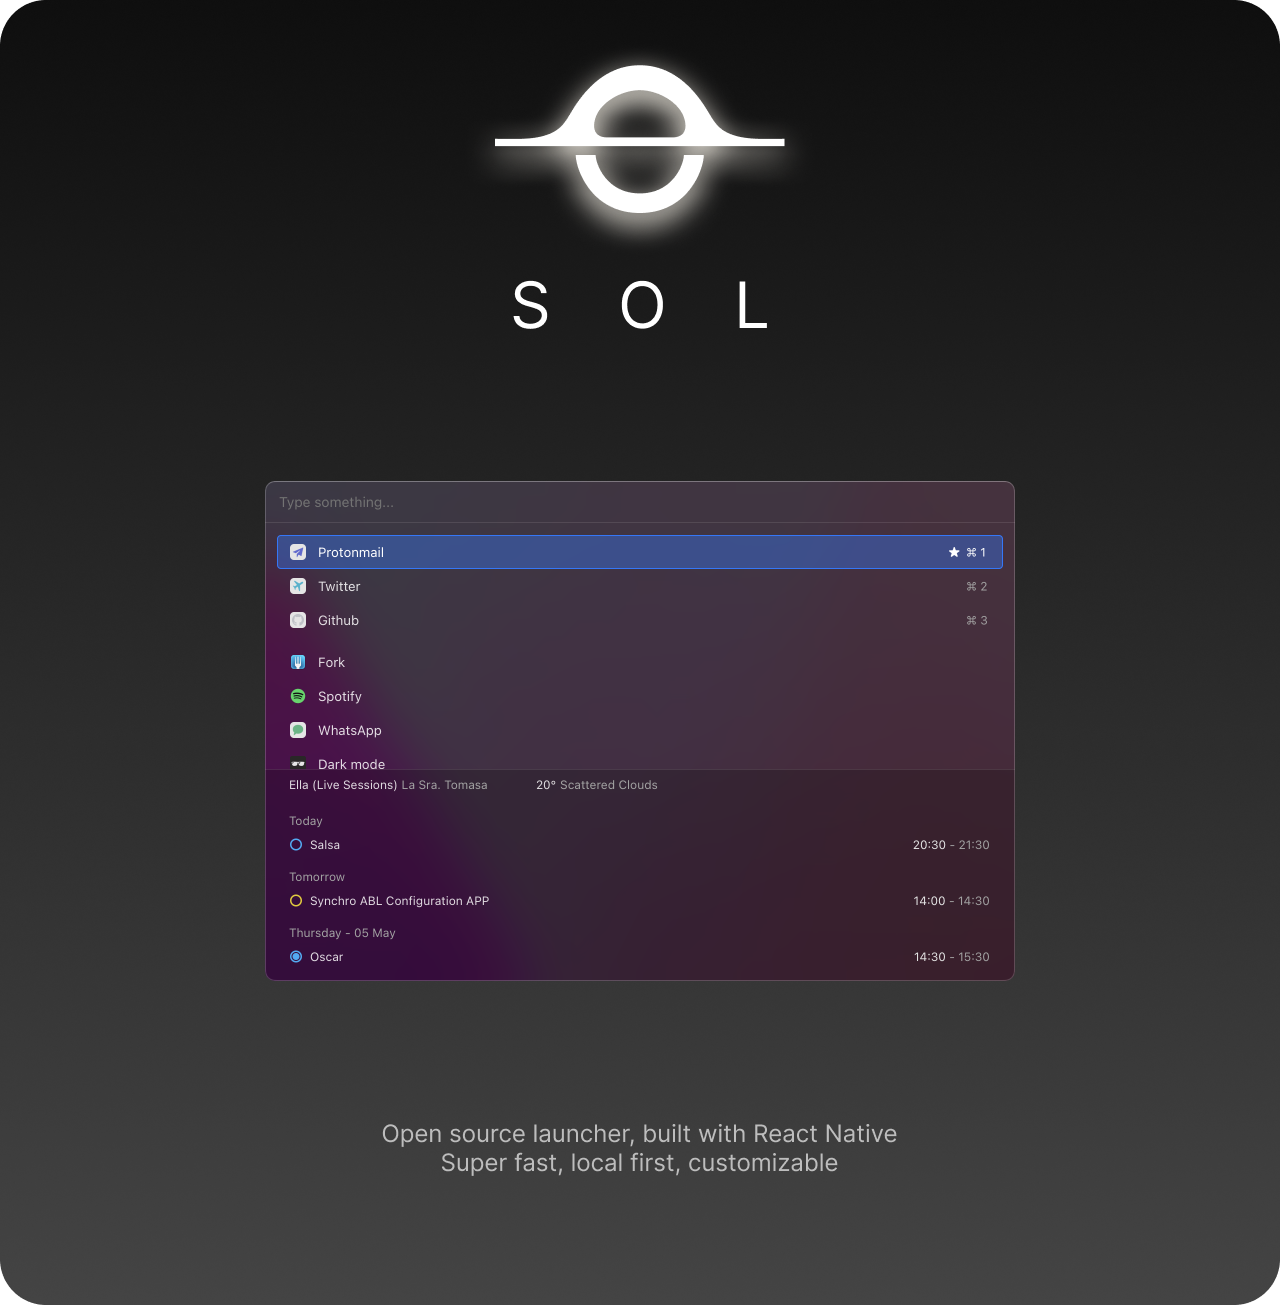
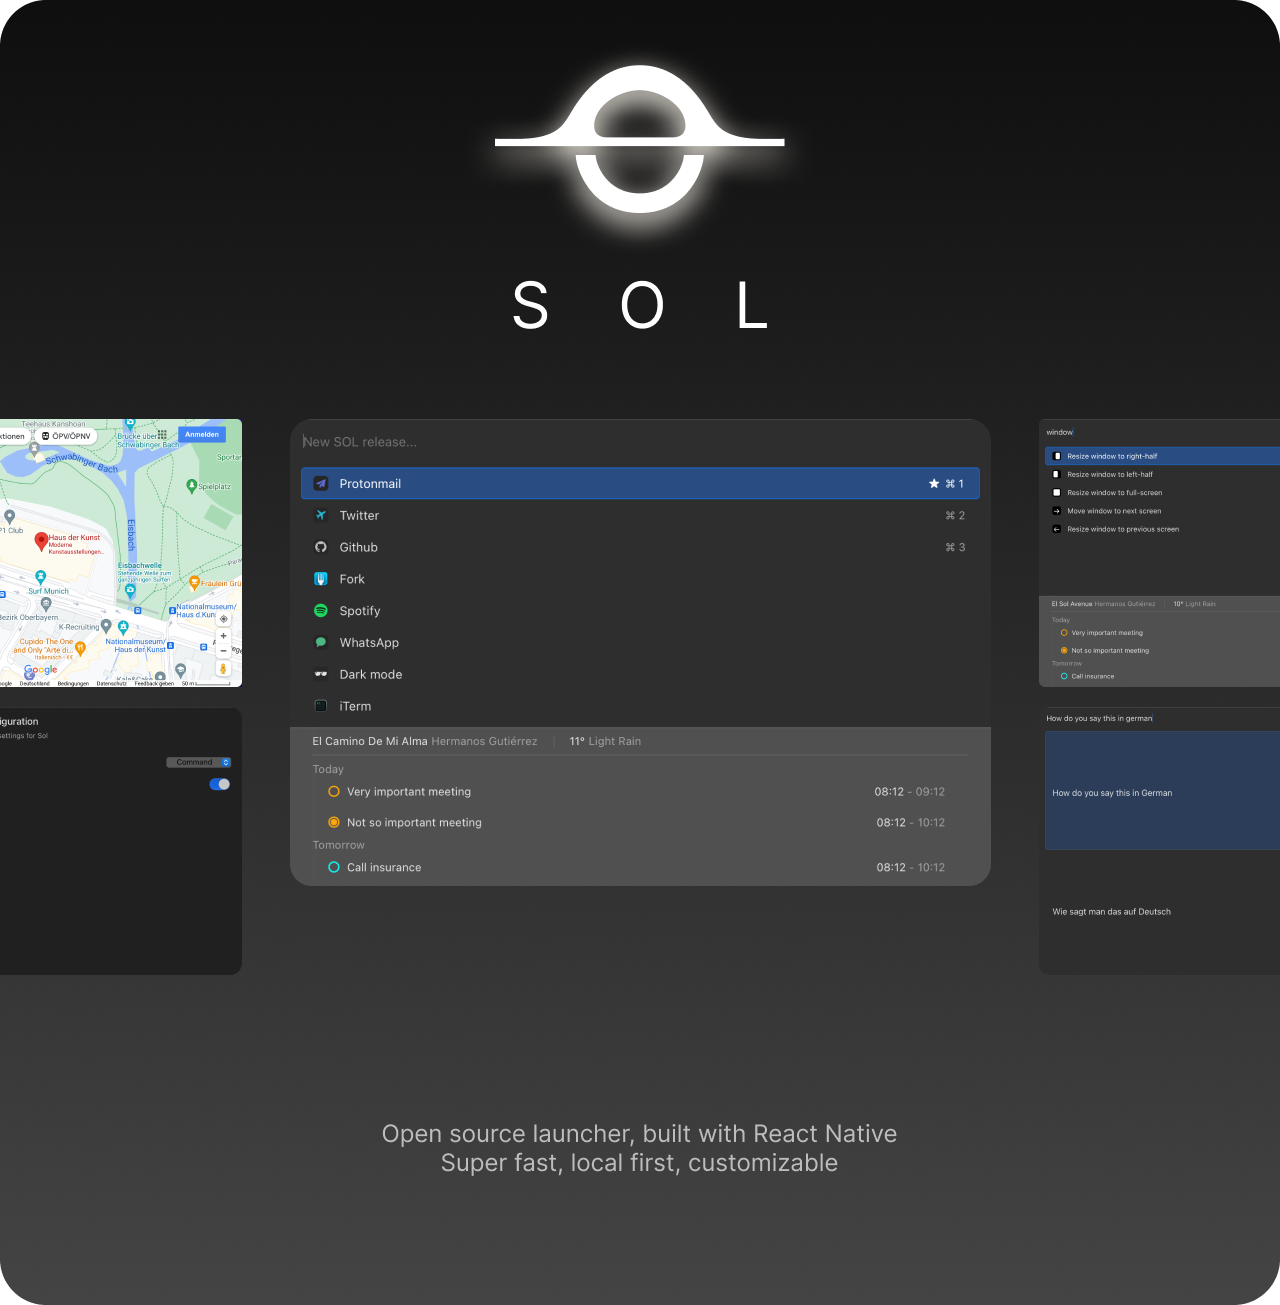
Replace header image

Changed region(s): [[0.0, 0.3065, 1.0, 0.7663]]

diff --git a/README.md b/README.md
@@ -1,4 +1,4 @@
-<img src="https://raw.githubusercontent.com/ospfranco/sol/main/header2.png" align="center"/>
+<img src="https://raw.githubusercontent.com/ospfranco/sol/main/header.png" align="center"/>
 
 <br/>
 <div align="center">
